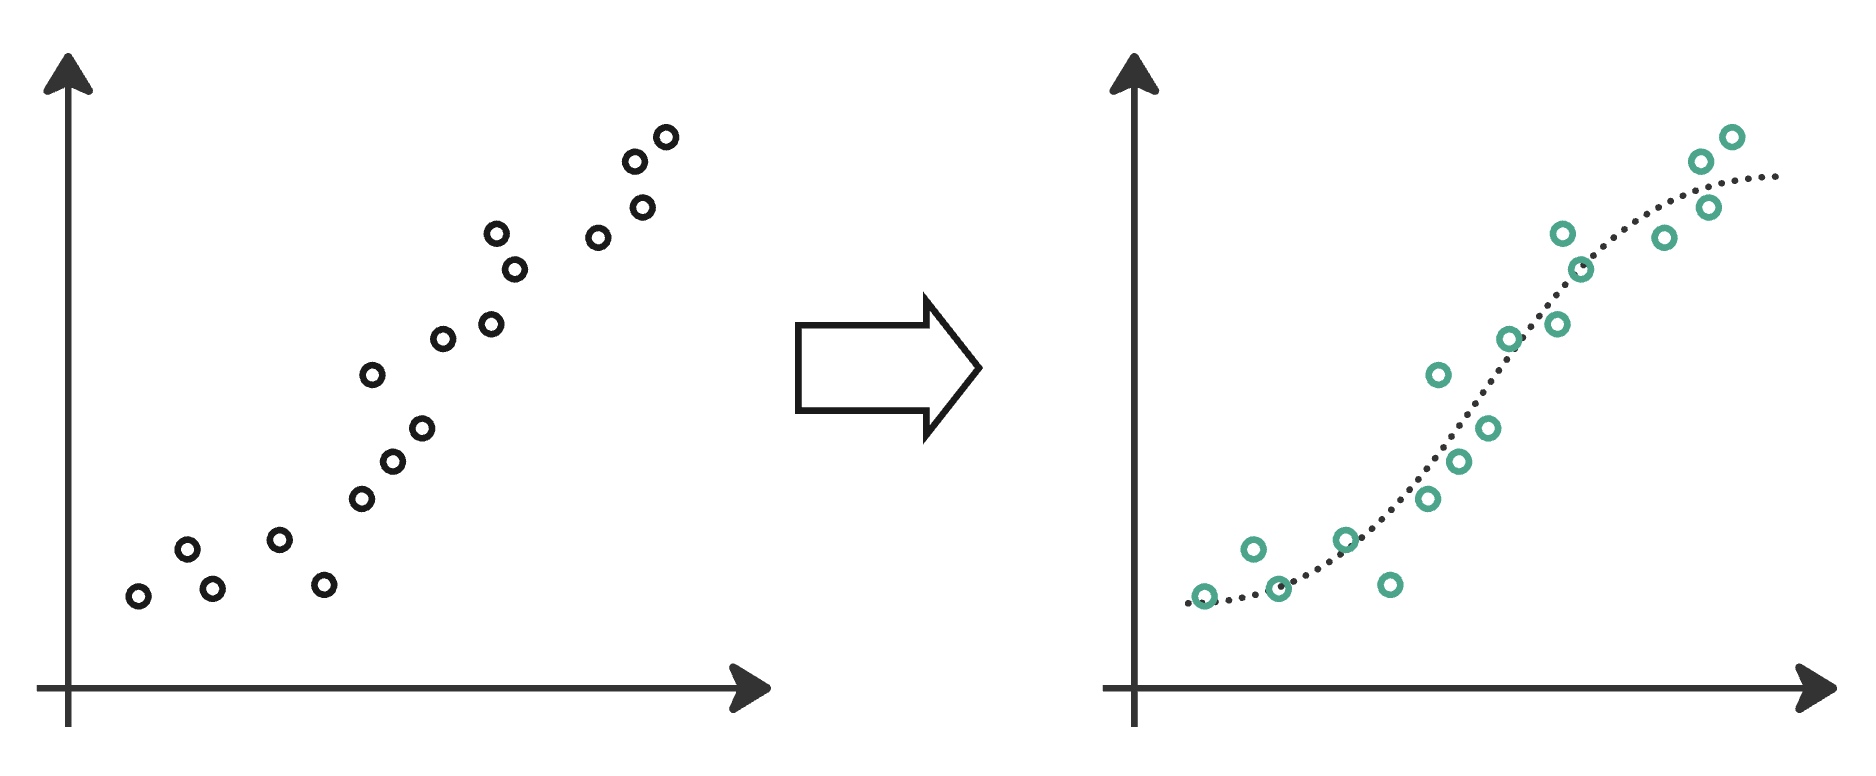
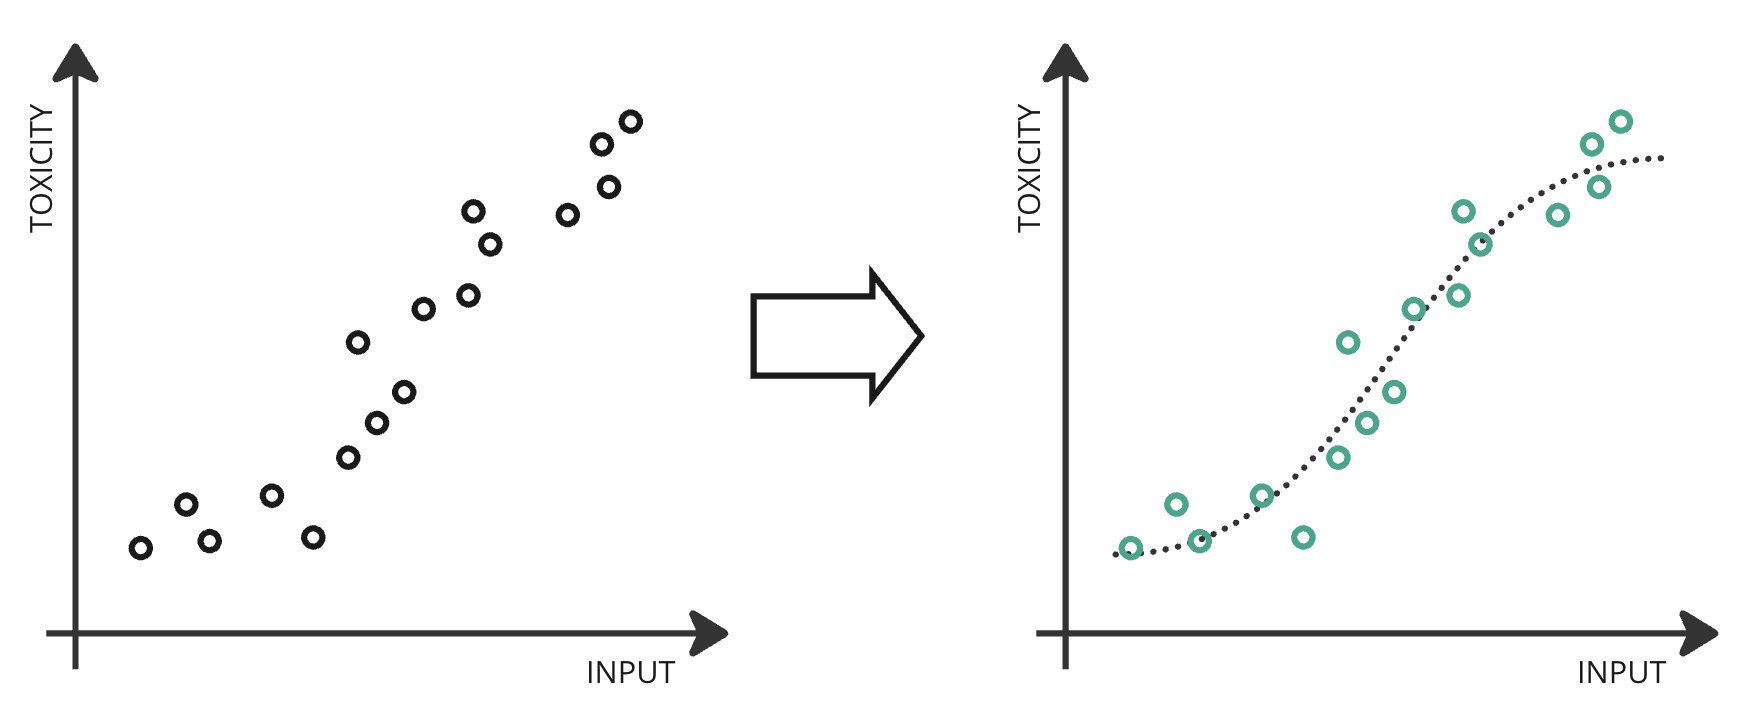
Updated intro pages

diff --git a/docs/generative-ai.md b/docs/generative-ai.md
@@ -15,27 +15,34 @@ Since 2017, there has been a lot of work in the area of generative AI. Broadly s
 
 ![Generative AI](imgs/gen1.png){ align=center }
 
-In many ways, generative AI is similar to supervised learning. The models output predictions that are content. However, for the kinds of content that is popular with Generative AI, there are orders of magnitude more data available online than for other tasks. This has meant that organisations can build larger and larger models, with massive training data sets. 
+In many ways, generative AI is similar to supervised learning. The predictions that the models make are actually predictions about the content itself. You might hear the term _self-supervised_ to describe these models. This is because we don't need a person to label the data as the supervision signal is present within the data itself. 
 
-Generative AI was spurred on recently by the introduction of the transformer model (a kind of neural network) in 2017, and more recent work in building large models. In the field of natural language processing (NLP), transformer models have had a huge impact. Generative AI with text comes from language modelling - the task of predicting the next word in a sentence. This is a supervised learning task, where the task is given a sequence of words, predict the next word. However, it doesn’t require large amounts of effort to label data, because “next word” is inherently there in the data. This model is a very powerful autocomplete model. 
+One big difference between generative AI and more classic supervised learning is that the kind of content (image, text, audio etc.) that's popular for generative AI models is widely available online. This means that organisations can build larger and larger models with massive training data sets. 
 
-What’s interesting about Generative AI models for NLP is that when trained on large amounts of data, they are able to do several tasks that they weren’t explicitly trained to do. Or, they can be fine-tuned to do a task with a small amount of data - far smaller than the amount of data that’s needed to build a supervised model from scratch. These models are the basis of ChatGPT. 
+Generative AI was spurred on recently by the introduction of the transformer model (a kind of neural network) in 2017, and more recent work in building large models. In the field of natural language processing (NLP), transformer models have had a huge impact. Generative AI in NLP uses the task of _language modelling_ - the task of predicting the next word in a sentence. This is a supervised learning task. Given a sequence of words, the model's goal is to predict the next word. It doesn’t require large amounts of effort to label the text data for training because “next word” is inherently there in the data. A language model is essentially a very powerful autocomplete model, but additional types of training is used to turn a basic language model into a chat model like ChatGPT. 
+
+What’s interesting about Generative AI models for NLP is that when trained on large amounts of data, they are able to do several tasks that they weren’t explicitly trained to do. For example, with a large amount of multilingual training data, they are able to translate between languages. This is described as _zero shot learning_.
+
+Tasks involving image and audio processing tend to make use of _diffusion models_ rather than transformers. 
 
 ## Frontier/Foundation Models
 
-As organisations have trained increasingly larger and larger models, they have got more expensive to train. A typical way of working now is that these large ‘_foundation models_’ trained once by an organisation with the money and resources to do so, and then used by many others.
+Generative AI models are expensive to train, due to their large size and the large amount of training data. There's a current trend of building larger and larger models. That means that only a handful of organisations can afford to build their own models from scratch. A typical way of working now is that these large ‘_foundation models_’ trained once by an organisation with the money and resources to do so, are then released publicly. Others can then use the models directly, or _fine-tune_ them for their own projects with a small amount of data - far smaller than the amount of data that’s needed to build their own large model from scratch.
 
 There are some considerations to take into account when using foundation models:
 
-- We do not usually know the data they're trained on
-- If a model is behind an API, we cannot be sure about reproducibility
-- These models are typically trained on large amounts of data from the internet, which brings with it societal biases that become embedded in the model
-- There's a large environmental cost to using these models
-
-You might hear the term self-supervised to describe these models, because the supervision signal is from within the data itself rather than being labelled by a human. 
+- For many public models, there are varying levels of openness. Often the model weights might be available, but we might not know about the training data that was used. 
+- If a model is hosted by an organisation behind an API, we cannot be sure what changes they are making, and that can affect reproducibility
+- These models are typically trained on large amounts of data from the internet, which brings with it societal biases that become embedded in the model.
+- There's a large environmental cost to using these models.
 
 
 ## Inspiration
+
+Here are two papers that look at applications of some of these models:
+
+- [An Interdisciplinary Outlook on Large Language Models for Scientific Research](https://arxiv.org/abs/2311.04929)
+- [An Overview of Diffusion Models: Applications, Guided Generation, Statistical Rates and Optimization](https://arxiv.org/abs/2404.07771)
 
 ## More Resources
 

diff --git a/docs/supervised-learning.md b/docs/supervised-learning.md
@@ -20,7 +20,7 @@ Our job in using supervised learning is to define what the input and output of a
 
 One example of supervised learning is that of predicting whether an email is spam or not. In this example, there are two _categories_, or _classes_ - SPAM and NOT_SPAM.
 
-Our machine learning models cannot directly accept email text as input, so first we extract features from each of the emails. Three features might be, for example, the length of the email, the number of spelling mistakes, and the number of dollar signs in the email. 
+Our machine learning models cannot directly accept email text as input, so first we extract numerical features from each of the emails. Three features might be, for example, the length of the email, the number of spelling mistakes, and the number of dollar signs in the email. 
 
 ![Spam Email Detection](imgs/sup2.png){ align=center }
 
@@ -30,24 +30,29 @@ By training the model directly on a dataset of emails that have been labelled as
 
 Supervised learning can either be **classification** or **regression**.
 
-**Classification** is where the output is one of a fixed number of categories. This could be a binary classification task where there are exactly two possible outputs, like the example above of spam email detection.  You can think of this as finding a line to separate the two classes, as here:
+**Classification** is where the output is one of a fixed number of categories. This could be a binary classification task where there are exactly two possible outputs, like the example above of spam email detection.  You can think of the model as finding a line to separate the two classes, as here:
 
 ![Binary Classification](imgs/sup3.png){ align=center }
 
-Though, more complex classifiers draw lines that are more complex than just a straight line. 
+Usually, there's some overlap between our classes, but we can find a good way to separate them. Usually though, classifiers find a way to separate two classes that is more complex than just a straight line. 
 
 A different task might have multiple categories that an input could belong to. For example, recognising the face of a person in a photo. There are many possible people who could be pictured in the photo, and each person is a possible category.
 
 
 ![Multi-class Classification](imgs/sup4.png){ align=center }
 
-In other scenarios, an input might have more than one label. For example, a photo might have two or more different people in it, and we'd like to identify each. This is called _multi-label_ classification.
+In other scenarios, an input might have more than one label. For example, a photo might have two or more different people in it, and we'd like to identify each. This is called _multi-label_ classification, because each photo has more than one label associated with it.
 
-Sometimes the number of classes can be very large, as in the case of many language processing tasks. Automatically translating text from one language to another is a supervised task, where the model predictions are words in the target language. 
+Sometimes the number of classes can be very large, in the thousands or millions, as in the case of many language processing tasks. Automatically translating text from one language to another is a supervised task, where the model predictions are words in the target language. 
 
-**Regression** is similar to classification, except that the output is a continuous number rather than a discrete class. Examples might be predicting the toxicity of a molecule on a scale. 
+**Regression** is similar to classification, except that the output is a continuous number rather than a discrete class. Examples might be predicting the toxicity of a molecule on a scale. Fitting a line of best fit is a simple kind of regression. 
 
 ![Regression](imgs/sup5.png){ align=center }
+
+## Feature Extraction
+
+It's worth noting that machine learning models require numerical inputs, and you'll need to consider in designing your setup. Some tasks naturally have numerical inputs already - whether that's data from sensors, medical tests, pixel values or some other kind of data that's naturally a number. In other tasks, like in text processing, we need to convert our input to a numerical format by extracting _features_.
+
 
 ## Examples of Supervised Learning
 
@@ -73,10 +78,6 @@ Some of the common supervised learning algorithms you might encounter are:
 - Neural Networks
 
 Much of the recent excitement around AI focuses on neural network approaches. However, depending on your data and task, the other algorithms may be more practical to use.
-
-## Feature Extraction
-
-It's worth noting that models require numerical inputs as it's something you'll need to consider in designing your setup. Some tasks naturally have numerical inputs already - whether that's data from sensors, medical tests, pixel values or something else that's naturally a number. In other tasks, we need to convert our input to a numerical format by extracting _features_. 
 
 
 ## Top Tips for getting started

diff --git a/docs/unsupervised-learning.md b/docs/unsupervised-learning.md
@@ -21,7 +21,7 @@ Three common unsupervised algorithms are _clustering_, _dimensionality reduction
 
 Clustering is the process of taking your data and discovering sub-groups, or clusters, that are sufficiently similar to each other. Unlike classification in supervised learning, where we know the groups ahead of time, clustering uncovers the structure of the groups in a larger population.
 
-Suppose you're working with medical data. You know that some groups of people respond differently to treatment than others, but you don't know the factors that lead here. A clustering algorithm might group your participants into different clusters that allow you to explain what's going on.
+Suppose you're working with medical data. You know that some groups of people respond differently to treatment than others, but you don't know the factors that drive this. A clustering algorithm might group your participants into different clusters that potentially allow you to better explain what's going on.
 
 ![Clustering](imgs/cluster1.png){ align=center }
 
@@ -32,7 +32,7 @@ K-means and DBSCAN are popular clustering algorithms. You may need to give the n
 
 **Dimensionality reduction**
 
-High dimensional data is hard to work with. The first thing we usually notice is that it's hard to visualise well, so that you can explore what the data looks like. A high number of dimensions also imacts the number of parameters your AI model needs to model the data. The more parameters a model has, the larger model and more data you need. This is the _curse of dimensionality_.
+High dimensional data is hard to work with. The first thing we usually notice is that it's hard to visualise well in high dimensions, so that you can explore what the data looks like. A high number of dimensions also imacts the number of parameters your AI model needs to model the data. The more parameters a model has, the larger model and more data you need. This is the _curse of dimensionality_.
 
 Reducing the dimensionality of your data can be one way to work with it effectively. Projecting down to 2- or 3-dimensions means that you can plot it on a graph to view.
 

diff --git a/docs/reinforcement-learning.md b/docs/reinforcement-learning.md
@@ -11,13 +11,17 @@ This section will help you understand:
 
 
 ## Overview
-Reinforcement learning is an area of AI and ML looking at tasks where the computer has to take a series of moves in an uncertain and changing environment, to achieve a particular goal. 
+Reinforcement learning is an area of AI and ML looking at tasks where the computer has to take a series of moves in an uncertain and changing environment, to achieve a particular goal.
 
-RL is used in scenarios like
+Reinforcement Learning models learn through trial and error, and are given a _reward_ signal if they achieve their goal. The models aim to optimise their reward. In practice, it's used much less than supervised and unsupervised learning. 
 
-- Playing games
-- Human-computer dialogue
-- Controlling robots in real-world environments
+
+## Reinforcement Learning Use Cases
+RL is used in scenarios like:
+
+- Playing games, where the computer can choose to make optimal moves but there is some uncertainty about the moves its opponent may make. 
+- Human-computer dialogue, where again the computer can choose an optimal utterance, but there is uncertainty about what the person will say and how that affects the trajectory of the conversation. 
+- Controlling robots in real-world environments where there is uncertainty about how the environment changes over time.
 
 In each of these tasks, it’s hard to judge in isolation whether a single turn or move by the computer is optimal. Yet, we do know in the long-term whether the computer achieves its goal.
 
